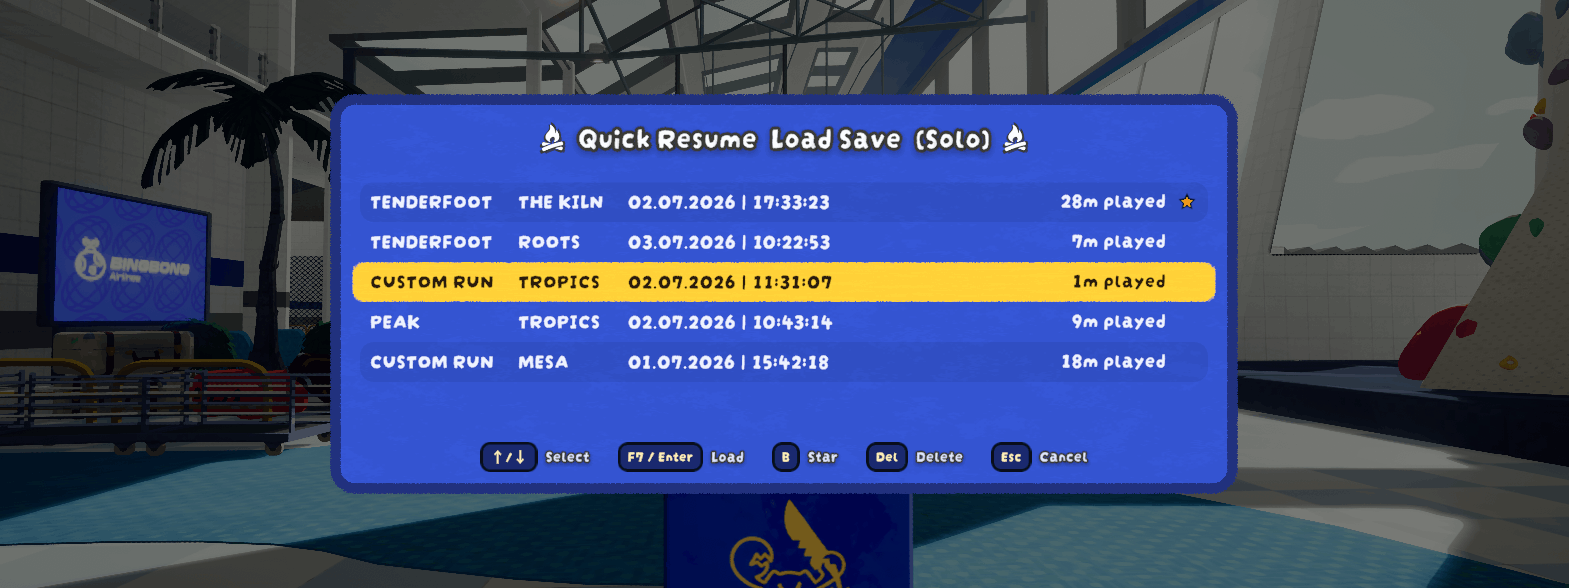
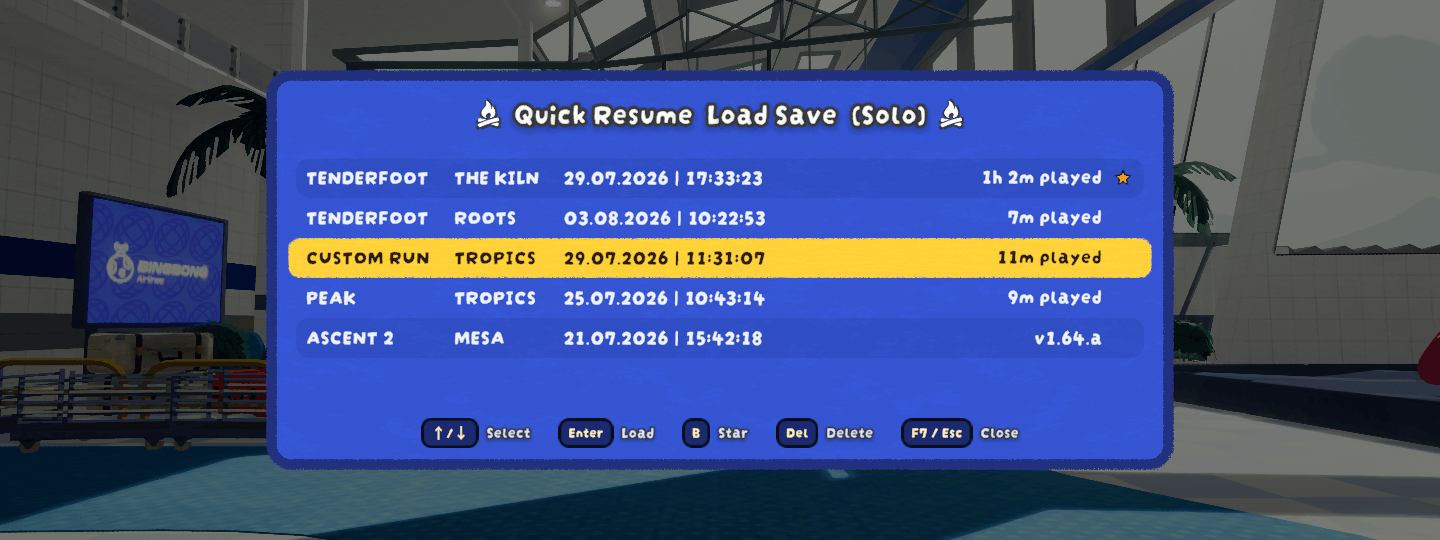
changed default behavior of save picker to open/close with f7 and load only with enter;

diff --git a/src/PeakQuickResume/SavePicker.cs b/src/PeakQuickResume/SavePicker.cs
@@ -12,13 +12,13 @@ namespace PEAKQuickResume
     /// The in-game F7 save picker: an overlay listing every archived checkpoint for the
     /// CURRENT network category (offline saves when solo, coop saves when in coop), newest
     /// first. Arrow keys move the highlight (holding one repeats it), Delete removes a save
-    /// (two-step), Escape closes. The resume key itself (open / confirm-load) is driven by
+    /// (two-step), Escape closes. The resume key itself (open / close, or confirm-load when
+    /// <see cref="PluginConfig.ResumeKeyLoadsInsteadOfClosing"/> is enabled) is driven by
     /// <see cref="Plugin"/> so a single key press never both opens and confirms
     ///
-    /// The newest save is preselected, so "press F7, press F7 again" still loads the
-    /// latest checkpoint exactly like before the picker existed (unless
-    /// <see cref="PluginConfig.ResumeKeyAlsoConfirmsLoad"/> is disabled, in which case only
-    /// Enter confirms)
+    /// The newest save is preselected, so "press F7, press Enter" loads the latest
+    /// checkpoint (or "press F7, press F7 again" when
+    /// <see cref="PluginConfig.ResumeKeyLoadsInsteadOfClosing"/> is enabled)
     ///
     /// Rendered as a real UGUI Canvas (built once, lazily, then just toggled/updated)
     /// rather than IMGUI, both for a look that sits closer to the game's own menus (real
@@ -191,7 +191,7 @@ namespace PEAKQuickResume
                 _dimImage.color = new Color(DimColor.r, DimColor.g, DimColor.b, DimColor.a * t);
             }
 
-            // Navigation (the resume key + Enter confirm live in Plugin). Holding an
+            // Navigation (the resume key + Enter load live in Plugin). Holding an
             // arrow repeats it after an initial delay, like any normal menu list. Holding
             // Shift jumps by JumpStep entries instead of 1, both on the initial press and
             // on every repeat while held
@@ -955,14 +955,15 @@ namespace PEAKQuickResume
         }
 
         // Cheap refresh for just the footer row: reflects the CURRENT resume key (in
-        // case it was rebound) and whether it also confirms a load while open, so it
-        // never shows a key that no longer does what it says
+        // case it was rebound) and whether it loads or closes while the picker is open,
+        // so it never shows a key that no longer does what it says
         private void RefreshFooter()
         {
             if (_footerRow == null || _footerEntries.Count < 5) return;
             string key = _cfg != null ? _cfg.ResumeKey.Value.ToString() : "F7";
-            bool keyAlsoLoads = _cfg == null || _cfg.ResumeKeyAlsoConfirmsLoad.Value;
-            string loadKeys = keyAlsoLoads ? $"{key} / Enter" : "Enter";
+            bool keyLoads = _cfg != null && _cfg.ResumeKeyLoadsInsteadOfClosing.Value;
+            string loadKeys = keyLoads ? $"{key} / Enter" : "Enter";
+            string closeKeys = keyLoads ? "Esc" : $"{key} / Esc";
             string starKey = _cfg != null ? _cfg.StarKey.Value.ToString() : "B";
             bool starred = Selected != null && Selected.Starred;
 
@@ -970,7 +971,7 @@ namespace PEAKQuickResume
             SetFooterEntry(_footerEntries[1], loadKeys, SavePickerLocalization.Get(PickerText.Load));
             SetFooterEntry(_footerEntries[2], starKey, SavePickerLocalization.Get(starred ? PickerText.Unstar : PickerText.Star));
             SetFooterEntry(_footerEntries[3], "Del", SavePickerLocalization.Get(PickerText.Delete));
-            SetFooterEntry(_footerEntries[4], "Esc", SavePickerLocalization.Get(PickerText.Cancel));
+            SetFooterEntry(_footerEntries[4], closeKeys, SavePickerLocalization.Get(PickerText.Close));
 
             // Badge widths are driven by ContentSizeFitter off the key text's own
             // preferred size, force an immediate layout pass so a changed key (e.g. the
@@ -991,8 +992,8 @@ namespace PEAKQuickResume
             entry.LabelText.text = label;
         }
 
-        // Builds the row of "[key badge] label" pairs (↑/↓ Select, F7/Enter Load, Del
-        // Delete, Esc Cancel). A real rounded-rect Image behind each key, not a TMP
+        // Builds the row of "[key badge] label" pairs (↑/↓ Select, Enter Load, Del
+        // Delete, F7/Esc Close). A real rounded-rect Image behind each key, not a TMP
         // <mark> tag (no rounded corners, and its background doesn't vertically center
         // against the text the way a normal layout does)
         private const float TitleIconSize = 30f;

diff --git a/src/PeakQuickResume/HelpScreenLocalization.cs b/src/PeakQuickResume/HelpScreenLocalization.cs
@@ -17,7 +17,8 @@ namespace PEAKQuickResume
         HelpTitleWord,         // combined with the untranslated "Quick Resume" as "Quick Resume {0}"
         Close,
         Intro1,
-        QuickResumeFormat,     // {0} = resume key badge (used twice in the sentence)
+        QuickResumeFormat,          // {0} = resume key badge (used twice in the sentence)
+        QuickResumeKeyLoadsFormat,  // same, for resume-key-loads-instead-of-closing
         RestartTip,
         AchievementsNote,
     }
@@ -58,6 +59,24 @@ namespace PEAKQuickResume
                 "İlerleme yaktığın her kamp ateşinde kaydedilir (yalnızca sunucu; sunucu her oturumda yeniden yüklemelidir).",
             },
             [HelpText.QuickResumeFormat] = new[]
+            {
+                "Press {0} ANYWHERE to open the save picker, arrow keys to choose, Enter to load (the newest save is preselected), {0} or Escape to close.",
+                "Appuyez sur {0} N'IMPORTE OÙ pour ouvrir le sélecteur de sauvegardes, les flèches pour choisir, Entrée pour charger (la sauvegarde la plus récente est présélectionnée), {0} ou Échap pour fermer.",
+                "Premi {0} OVUNQUE per aprire il selettore dei salvataggi, le frecce per scegliere, Invio per caricare (il salvataggio più recente è preselezionato), {0} o Esc per chiudere.",
+                "Drücke {0} ÜBERALL, um die Speicherstandauswahl zu öffnen, Pfeiltasten zum Auswählen, Enter zum Laden (der neueste Speicherstand ist vorausgewählt), {0} oder Escape zum Schließen.",
+                "Pulsa {0} EN CUALQUIER LUGAR para abrir el selector de partidas, flechas para elegir, Intro para cargar (la partida más reciente está preseleccionada), {0} o Escape para cerrar.",
+                "Presiona {0} EN CUALQUIER LUGAR para abrir el selector de partidas, flechas para elegir, Enter para cargar (la partida más reciente está preseleccionada), {0} o Escape para cerrar.",
+                "Pressione {0} EM QUALQUER LUGAR para abrir o seletor de saves, setas para escolher, Enter para carregar (o save mais recente já vem selecionado), {0} ou Esc para fechar.",
+                "Нажмите {0} В ЛЮБОМ МЕСТЕ, чтобы открыть выбор сохранений, стрелки для выбора, Enter для загрузки (последнее сохранение уже выбрано), {0} или Escape для закрытия.",
+                "Натисніть {0} БУДЬ-ДЕ, щоб відкрити вибір збережень, стрілки для вибору, Enter для завантаження (останнє збереження вже вибрано), {0} або Escape, щоб закрити.",
+                "在任何地方按下 {0} 打开存档选择器，方向键选择，回车加载（已默认选中最新存档），{0} 或 Esc 关闭。",
+                "",
+                "どこでも {0} を押すとセーブ選択画面が開きます。矢印キーで選択し、Enterでロード（最新のセーブが初期選択）、{0} または Esc で閉じます。",
+                "어디서든 {0}을(를) 눌러 저장 파일 선택 화면을 열고, 방향키로 선택한 뒤 Enter로 불러오세요 (최신 저장 파일이 미리 선택됩니다). {0} 또는 Esc로 닫습니다.",
+                "Naciśnij {0} GDZIEKOLWIEK, aby otworzyć wybór zapisów, strzałki do wyboru, Enter do wczytania (najnowszy zapis jest już wybrany), {0} lub Esc, aby zamknąć.",
+                "Kayıt seçiciyi açmak için HER YERDE {0} tuşuna basın, seçim için ok tuşları, yüklemek için Enter (en yeni kayıt önceden seçilidir), kapatmak için {0} veya Esc.",
+            },
+            [HelpText.QuickResumeKeyLoadsFormat] = new[]
             {
                 "Press {0} ANYWHERE to open the save picker, arrow keys to choose, {0}/Enter to load (press it twice for your latest).",
                 "Appuyez sur {0} N'IMPORTE OÙ pour ouvrir le sélecteur de sauvegardes, les flèches pour choisir, {0}/Entrée pour charger (appuyez-y deux fois pour la plus récente).",

diff --git a/src/PeakQuickResume/PluginConfig.cs b/src/PeakQuickResume/PluginConfig.cs
@@ -7,7 +7,7 @@ namespace PEAKQuickResume
     public class PluginConfig
     {
         public readonly ConfigEntry<KeyCode> ResumeKey;
-        public readonly ConfigEntry<bool> ResumeKeyAlsoConfirmsLoad;
+        public readonly ConfigEntry<bool> ResumeKeyLoadsInsteadOfClosing;
         public readonly ConfigEntry<KeyCode> HelpKey;
         public readonly ConfigEntry<KeyCode> StarKey;
         public readonly ConfigEntry<bool> AllowMidGame;
@@ -134,16 +134,16 @@ namespace PEAKQuickResume
             // ever assigns a single KeyCode anyway, so that ceiling already existed
             // for anyone using it to rebind
             ResumeKey = cfg.Bind("General", "resume-key", KeyCode.F7,
-                "Opens the save picker (a menu of your checkpoints for the current solo/co-op category). "
-                + "Use the arrow keys to choose, then press this key again (or Enter) to load. The newest "
-                + "save is preselected, so pressing it twice loads your latest checkpoint. Delete removes "
-                + "the highlighted save; Escape closes the menu.");
+                "Opens the save picker (a menu of your checkpoints for the current solo/co-op category), and "
+                + "closes it again. Use the arrow keys to choose, then press Enter to load. The newest save is "
+                + "preselected, so Enter right after opening loads your latest checkpoint. Delete removes the "
+                + "highlighted save; Escape also closes the menu.");
 
-            ResumeKeyAlsoConfirmsLoad = cfg.Bind("General", "resume-key-also-confirms-load", true,
-                "If enabled (default), pressing the resume key again while the save picker is open loads the "
-                + "highlighted save (so pressing it twice loads the latest checkpoint). If disabled, only Enter "
-                + "confirms a load while the picker is open, pressing the resume key does nothing, useful if "
-                + "you keep accidentally loading a save while trying to close the picker with it.");
+            ResumeKeyLoadsInsteadOfClosing = cfg.Bind("General", "resume-key-loads-instead-of-closing", false,
+                "If disabled (default), pressing the resume key again while the save picker is open just closes "
+                + "the picker, and only Enter loads the highlighted save. If enabled, the resume key loads the "
+                + "highlighted save instead (so pressing it twice loads the latest checkpoint) and only Escape "
+                + "closes the picker (the behaviour from earlier versions).");
 
             // Same plain-KeyCode reasoning as resume-key above (ModConfig only renders a
             // rebind widget for KeyCode, not KeyboardShortcut)

diff --git a/src/PeakQuickResume/Plugin.cs b/src/PeakQuickResume/Plugin.cs
@@ -261,8 +261,9 @@ namespace PEAKQuickResume
                 _cfg.LastCheckedGameVersion.Value = current;
             }
 
-            // While the picker is open, Enter is an alternative "load selected"; the
-            // picker itself handles arrows / Delete / Escape
+            // While the picker is open, Enter is the "load selected" key (the only one,
+            // unless resume-key-loads-instead-of-closing is on); the picker itself
+            // handles arrows / Delete / Escape
             if (_picker != null && _picker.IsOpen
                 && (Input.GetKeyDown(KeyCode.Return) || Input.GetKeyDown(KeyCode.KeypadEnter)))
             {
@@ -285,14 +286,17 @@ namespace PEAKQuickResume
 
         private void OnResumeKey()
         {
-            // Picker already open → this second press loads the highlighted save
-            // (Newest is preselected, so F7 then F7 still loads the latest checkpoint.)
-            // Unless disabled via config, in which case only Enter confirms a load and
-            // the resume key is a no-op while the picker is open (avoids accidental loads
-            // from players trying to close the picker with the same key that opened it)
+            // Picker already open → the resume key toggles it shut again, which is what
+            // muscle memory expects from the key that opened it (players kept loading a
+            // save by accident while trying to close the picker). Loading is Enter's job
+            //
+            // Opt-in via config: the old behaviour, where this second press loads the
+            // highlighted save instead (newest is preselected, so F7 then F7 loads the
+            // latest checkpoint) and only Escape closes the picker
             if (_picker != null && _picker.IsOpen)
             {
-                if (_cfg.ResumeKeyAlsoConfirmsLoad.Value) ConfirmLoad();
+                if (_cfg.ResumeKeyLoadsInsteadOfClosing.Value) ConfirmLoad();
+                else _picker.Close();
                 return;
             }
 

diff --git a/src/PeakQuickResume/SavePickerLocalization.cs b/src/PeakQuickResume/SavePickerLocalization.cs
@@ -20,7 +20,7 @@ namespace PEAKQuickResume
         Select,
         Load,
         Delete,
-        Cancel,
+        Close,
         DeleteConfirm,
         Star,
         Unstar,
@@ -71,10 +71,13 @@ namespace PEAKQuickResume
                 "Delete", "Supprimer", "Elimina", "Löschen", "Eliminar", "Eliminar", "Excluir",
                 "Удалить", "Видалити", "删除", "", "削除", "삭제", "Usuń", "Sil",
             },
-            [PickerText.Cancel] = new[]
+            // Same wording as the help screen's own close label (HelpScreenLocalization.
+            // Close), kept in sync deliberately: both are the "this key shuts the panel"
+            // footer entry, not a "discard your changes" cancel
+            [PickerText.Close] = new[]
             {
-                "Cancel", "Annuler", "Annulla", "Abbrechen", "Cancelar", "Cancelar", "Cancelar",
-                "Отмена", "Скасувати", "取消", "", "キャンセル", "취소", "Anuluj", "İptal",
+                "Close", "Fermer", "Chiudi", "Schließen", "Cerrar", "Cerrar", "Fechar",
+                "Закрыть", "Закрити", "关闭", "", "閉じる", "닫기", "Zamknij", "Kapat",
             },
             [PickerText.DeleteConfirm] = new[]
             {

diff --git a/src/PeakQuickResume/HelpScreenContent.cs b/src/PeakQuickResume/HelpScreenContent.cs
@@ -31,7 +31,14 @@ namespace PEAKQuickResume
             // warning are gone (our own restore path has no native-key equivalent). The
             // restart tip below is kept regardless: quitting/rejoining still fixes most
             // load or teleport hiccups, whatever their source (possibly even vanilla ones)
-            sb.Append(HelpScreenLocalization.Get(HelpText.QuickResumeFormat, Key(resumeKey))).Append("\n\n");
+            // Two variants of the same line, matching whichever picker key layout is
+            // configured: by default the resume key opens AND closes the picker and only
+            // Enter loads, with the old "press it twice to load" layout available via
+            // resume-key-loads-instead-of-closing
+            bool keyLoads = cfg != null && cfg.ResumeKeyLoadsInsteadOfClosing.Value;
+            sb.Append(HelpScreenLocalization.Get(
+                keyLoads ? HelpText.QuickResumeKeyLoadsFormat : HelpText.QuickResumeFormat,
+                Key(resumeKey))).Append("\n\n");
 
             // Accent-color just the tip's opening question, matching the gold key badges
             // (same treatment the old BugTitle line had). The question ends where the

diff --git a/README.md b/README.md
@@ -4,13 +4,13 @@
 
 **Automatically saves when you light a campfire. Press F7 to browse your campfires and jump straight back to any of them.**
 
-Press **F7** anywhere and a **save picker** opens listing all your checkpoints for the current mode. Choose one with the arrow keys and press **F7** (or Enter) and it will:
+Press **F7** anywhere and a **save picker** opens listing all your checkpoints for the current mode. Choose one with the arrow keys and press **Enter** and it will:
 1. Start a **fresh run** of that save's difficulty, then
 2. Automatically **load that checkpoint**. So you're back at that campfire with your items and progress.
 
-The newest save is preselected, so **pressing F7 twice will load your latest checkpoint**.
+The newest save is preselected, so **pressing F7 and then Enter will load your latest checkpoint**.
 
-<img width="1569" height="588" alt="new-pause-menu-btns" src="https://raw.githubusercontent.com/OnlyCook/peak-quick-resume/refs/heads/main/packaging/in-game-menu-screenshot.png" />
+<img width="1440" height="540" alt="new-pause-menu-btns" src="https://raw.githubusercontent.com/OnlyCook/peak-quick-resume/refs/heads/main/packaging/in-game-menu-screenshot.png" />
 
 Works **after you die**, **from the Airport**, or **mid-run** (so no need to die first). Full **co-op** support: the host presses F7 and everyone is brought along and restored.
 
@@ -22,11 +22,11 @@ Works **after you die**, **from the Airport**, or **mid-run** (so no need to die
 
 1. Play as normal. Lighting a campfire saves automatically. Each save is added to your history.
 2. Press **F7** to open the save picker.
-3. Use **↑/↓** to highlight a checkpoint, then press **F7** again (or Enter) to load it. Just want the latest? Press **F7** twice.  
+3. Use **↑/↓** to highlight a checkpoint, then press **Enter** to load it. Just want the latest? Press **F7** and then **Enter**.  
   
 - Press **Del** to delete the highlighted save (press it twice to confirm).  
 - Press **B** to star the highlighted save (press **B** again to unstar it). Starred saves are moved to the top and can't be deleted until unstarred again.
-- Press **Esc** to close the menu.  
+- Press **F7** or **Esc** to close the menu.  
 
 In co-op, only the **host** can use F7 and everyone is restored together.
 
@@ -57,8 +57,8 @@ Config file: `BepInEx/config/OnlyCook.PEAKQuickResume.cfg`.
 
 If you have [PEAKLib.ModConfig](https://thunderstore.io/c/peak/p/PEAKModding/ModConfig/) installed, every setting below is also editable in the game's settings under **Mod Settings → PEAK Quick Resume**, no need to touch the config file by hand.
 
-- **resume-key**: the key to open the picker / load the highlighted save (default **F7**). Rebindable directly in ModConfig's menu.
-- **resume-key-also-confirms-load**: if disabled, pressing the resume key while the picker is open does nothing, only Enter confirms a load (useful if you keep accidentally reloading while trying to close the picker).
+- **resume-key**: the key to open and close the picker (default **F7**). Rebindable directly in ModConfig's menu.
+- **resume-key-loads-instead-of-closing**: if enabled, pressing the resume key while the picker is open loads the highlighted save instead of closing the picker (so pressing it twice loads your latest checkpoint), and only Esc closes the menu. Off by default.
 - **help-key**: the key to open the help menu (default **F4**).
 - **allow-mid-game**: allow resuming while still alive (default on).
 - **panel-opacity**: how see-through the picker's background panel is (0 = fully see-through; 1 = fully opaque, default).

diff --git a/packaging/README.md b/packaging/README.md
@@ -1,12 +1,12 @@
 **Automatically saves when you light a campfire. Press F7 to browse your campfires and jump straight back to any of them.**
 
-Press **F7** anywhere and a **save picker** opens listing all your checkpoints for the current mode. Choose one with the arrow keys and press **F7** (or Enter) and it will:
+Press **F7** anywhere and a **save picker** opens listing all your checkpoints for the current mode. Choose one with the arrow keys and press **Enter** and it will:
 1. Start a **fresh run** of that save's difficulty, then
 2. Automatically **load that checkpoint**. So you're back at that campfire with your items and progress.
 
-The newest save is preselected, so **pressing F7 twice will load your latest checkpoint**.
+The newest save is preselected, so **pressing F7 and then Enter will load your latest checkpoint**.
 
-<img width="1569" height="588" alt="new-pause-menu-btns" src="https://raw.githubusercontent.com/OnlyCook/peak-quick-resume/refs/heads/main/packaging/in-game-menu-screenshot.png" />
+<img width="1440" height="540" alt="new-pause-menu-btns" src="https://raw.githubusercontent.com/OnlyCook/peak-quick-resume/refs/heads/main/packaging/in-game-menu-screenshot.png" />
 
 Works **after you die**, **from the Airport**, or **mid-run** (so no need to die first). Full **co-op** support: the host presses F7 and everyone is brought along and restored.
 
@@ -18,11 +18,11 @@ Works **after you die**, **from the Airport**, or **mid-run** (so no need to die
 
 1. Play as normal. Lighting a campfire saves automatically. Each save is added to your history.
 2. Press **F7** to open the save picker.
-3. Use **↑/↓** to highlight a checkpoint, then press **F7** again (or Enter) to load it. Just want the latest? Press **F7** twice.  
+3. Use **↑/↓** to highlight a checkpoint, then press **Enter** to load it. Just want the latest? Press **F7** and then **Enter**.  
   
 - Press **Del** to delete the highlighted save (press it twice to confirm).  
 - Press **B** to star the highlighted save (press **B** again to unstar it). Starred saves are moved to the top and can't be deleted until unstarred again.
-- Press **Esc** to close the menu.  
+- Press **F7** or **Esc** to close the menu.  
 
 In co-op, only the **host** can use F7 and everyone is restored together.
 
@@ -53,8 +53,8 @@ Config file: `BepInEx/config/OnlyCook.PEAKQuickResume.cfg`.
 
 If you have [PEAKLib.ModConfig](https://thunderstore.io/c/peak/p/PEAKModding/ModConfig/) installed, every setting below is also editable in the game's settings under **Mod Settings → PEAK Quick Resume**, no need to touch the config file by hand.
 
-- **resume-key**: the key to open the picker / load the highlighted save (default **F7**). Rebindable directly in ModConfig's menu.
-- **resume-key-also-confirms-load**: if disabled, pressing the resume key while the picker is open does nothing, only Enter confirms a load (useful if you keep accidentally reloading while trying to close the picker).
+- **resume-key**: the key to open and close the picker (default **F7**). Rebindable directly in ModConfig's menu.
+- **resume-key-loads-instead-of-closing**: if enabled, pressing the resume key while the picker is open loads the highlighted save instead of closing the picker (so pressing it twice loads your latest checkpoint), and only Esc closes the menu. Off by default.
 - **help-key**: the key to open the help menu (default **F4**).
 - **allow-mid-game**: allow resuming while still alive (default on).
 - **panel-opacity**: how see-through the picker's background panel is (0 = fully see-through; 1 = fully opaque, default).

diff --git a/packaging/CHANGELOG.md b/packaging/CHANGELOG.md
@@ -1,3 +1,9 @@
+## 2.X.X
+
+- By default now only **Enter** loads a save when in the picker, **F7** closes the menu. This is to prevent accidentally loading an unwanted save. By enabling `resume-key-loads-instead-of-closing` you can return to the old behavior. Thanks to **Cat-As$-Trophy** for the final nudge to change this!
+- Removed `resume-key-also-confirms-load` setting since its been deprecated and replaced (see above).
+- Renamed *Cancel* to *Close* in the footer of the save picker.
+
 ## 2.1.1
 
 - Added new system to check for the native `MODAL_OUTOFDATE_TITLE` dialog which would open when loading a save game locking all players from it since they are forced to update the game. Furthermore if the map pool were to be rotated in this update, broken saves would potentially be served instead. You are now informed about this through the mod's in-game logging system.
